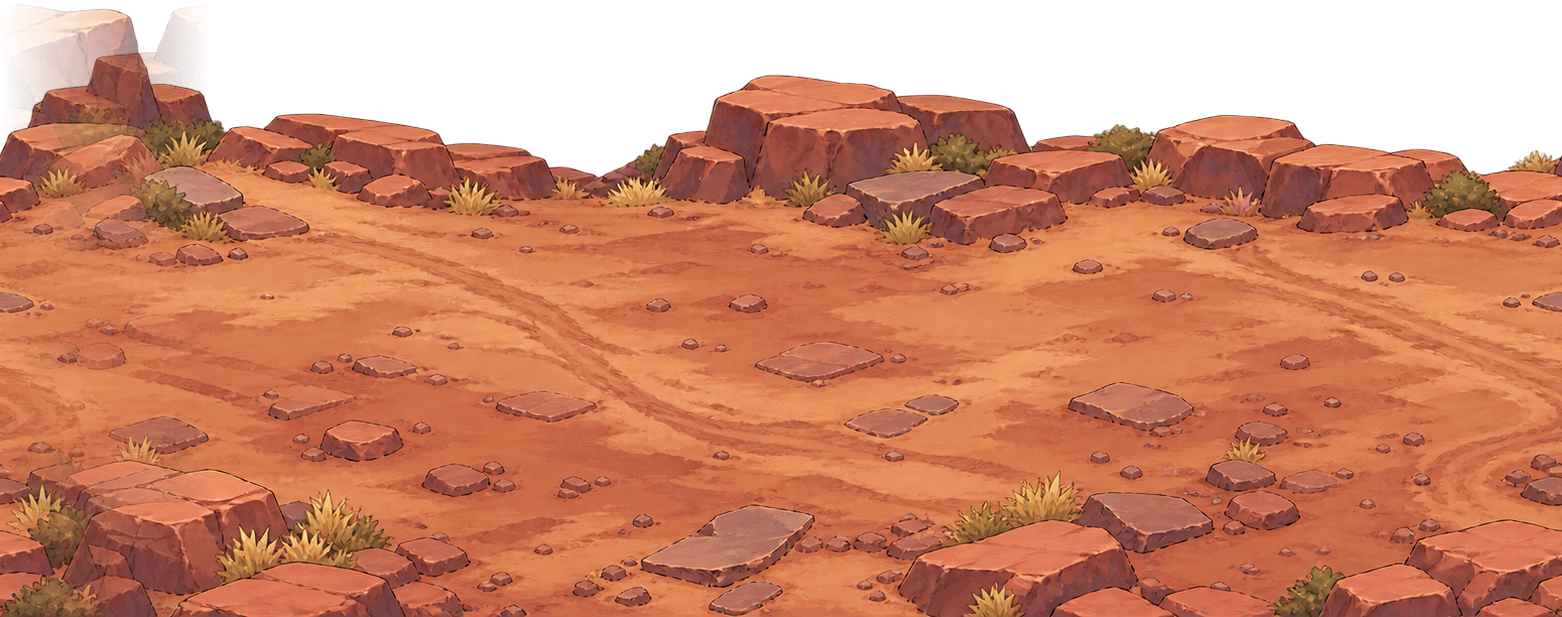
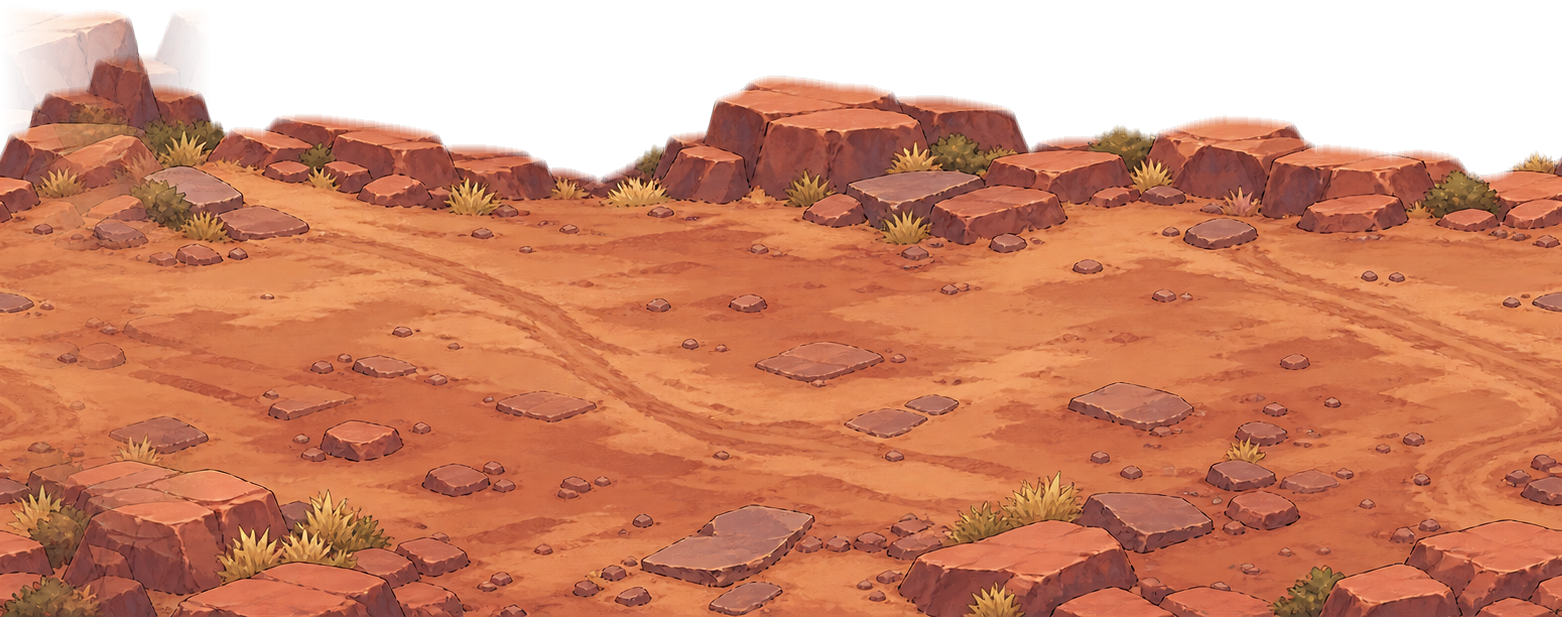
서리 무덤 완성: 서리 망령, 군단장 알도르, 배경 4레이어
- 추출 도구: 이펙트로 붙은 프레임을 가장 얇은 곳에서 나눔
- 배경 레이어 위쪽 가장자리를 부드럽게 처리해 가로줄 제거

Claude-Session: https://claude.ai/code/session_011AypWsTwCXy5ahmKUPDYwt

diff --git a/index.html b/index.html
@@ -685,7 +685,7 @@ function mixc(a,b,t){const p=h=>[1,3,5].map(i=>parseInt(h.slice(i,i+2),16)),A=p(
 const DECO=['windmill','trees','spires','graves','volcano'];
 function rnd(i){const x=Math.sin(i*127.1+311.7)*43758.5453;return x-Math.floor(x)}
 /* 배경 이미지: assets/bg/<지역>_<sky|far|mid|ground>.png, 가로 반복. 없으면 아래 코드 배경 */
-const BG_IMG={0:'erdan',1:'dusk',2:'canyon'},BG_FULL={dusk:true,canyon:true},BGI={};
+const BG_IMG={0:'erdan',1:'dusk',2:'canyon',3:'frost'},BG_FULL={dusk:true,canyon:true,frost:true},BGI={};
 function loadBgs(){for(const k in BG_IMG){const n=BG_IMG[k];BGI[n]={};for(const l of['sky','far','mid','ground']){const im=new Image();im.onload=()=>{im.ok=true;if(l==='ground')im.base=baseColor(im)};im.src='assets/bg/'+n+'_'+l+'.png';BGI[n][l]=im}}}
 function baseColor(im){const c=document.createElement('canvas');c.width=c.height=1;const x=c.getContext('2d');x.drawImage(im,0,im.height*.75,im.width,im.height*.25,0,0,1,1);const d=x.getImageData(0,0,1,1).data;return[d[0],d[1],d[2]]}
 function bgReady(r){const n=BG_IMG[REGIONS.indexOf(r)];return n&&['sky','far','mid','ground'].every(l=>BGI[n][l].ok)?BGI[n]:null}
@@ -828,7 +828,8 @@ function drawFxs(){for(const f of fxs){const n=FXDEF[f.k],i=Math.min(n-1,Math.fl
 /* 몬스터 스프라이트: 지역 번호 → 시트 이름. 시트는 assets/monsters/<이름>_<walk|attack|hit>.png, 왼쪽을 봄 */
 const MON_SPRITES={0:{id:'slime_plague',walk:4,attack:4,hit:2,fig:150,h:54},
  1:{id:'bat_shadow',walk:4,attack:4,hit:2,fig:180,h:44,lift:30,boss:{id:'boss_seril',walk:4,attack:4,hit:2,fig:195,h:72}},
- 2:{id:'golem_steel',walk:4,attack:4,hit:2,fig:190,h:58,boss:{id:'boss_gromak',walk:4,attack:4,hit:2,fig:200,h:74}}};
+ 2:{id:'golem_steel',walk:4,attack:4,hit:2,fig:190,h:58,boss:{id:'boss_gromak',walk:4,attack:4,hit:2,fig:200,h:74}},
+ 3:{id:'wraith_frost',walk:4,attack:4,hit:2,fig:185,h:50,lift:18,boss:{id:'boss_aldor',walk:4,attack:4,hit:2,fig:195,h:74}}};
 const MSPR={};
 function loadMonSprites(){for(const k in MON_SPRITES){for(const d of[MON_SPRITES[k],MON_SPRITES[k].boss].filter(Boolean)){MSPR[d.id]={};for(const a of['walk','attack','hit']){const im=new Image();im.onload=()=>{im.ok=true};im.src='assets/monsters/'+d.id+'_'+a+'.png';MSPR[d.id][a]=im}}}}
 const sprOk=d=>{const m=d&&MSPR[d.id];return!!m&&['walk','attack','hit'].every(a=>m[a]&&m[a].ok)};

diff --git a/tools/extract_sprites.py b/tools/extract_sprites.py
@@ -103,19 +103,29 @@ def main(src, cid, monster=False):
     rows = group_rows(blobs(alpha), len(rows_def))
     for (name, n), row in zip(rows_def, rows):
         row = merge_to(row, n)
+        while len(row) < n:  # 이펙트로 붙은 프레임: 가장 넓은 조각을 가장 얇은 세로줄에서 나눔
+            i = max(range(len(row)), key=lambda k: row[k][2] - row[k][0])
+            x0, y0, x1, y1 = row[i]
+            col = (alpha[y0:y1, x0:x1] > 200).sum(0)
+            q = (x1 - x0) // 4
+            m = x0 + q + int(np.argmin(col[q: (x1 - x0) - q]))
+            row[i:i + 1] = [[x0, y0, m, y1, 1], [m, y0, x1, y1, 1]]  # 5번째 값 1 = 나눈 프레임
         if len(row) != n:
             raise SystemExit(f"{name}: 프레임 {len(row)}개 (필요 {n}개)")
         sheet = Image.new("RGBA", (FRAME * n, FRAME), (0, 0, 0, 0))
-        for i, (x0, y0, x1, y1) in enumerate(row):
+        for i, box in enumerate(row):
+            x0, y0, x1, y1 = box[:4]
+            was_split = len(box) > 4
             hx = head_x(alpha, (x0, y0, x1, y1))
-            mine = own_mask(loose_lab, (x0, y0, x1, y1))
-            crop = img[max(0, y0 - 6): y1 + 4, max(0, x0 - 6): x1 + 6].copy()
+            mine = np.ones_like(alpha, bool) if was_split else own_mask(loose_lab, (x0, y0, x1, y1))
+            px = 0 if was_split else 6
+            crop = img[max(0, y0 - 6): y1 + 4, max(0, x0 - px): x1 + px].copy()
             a = crop[..., 3]
-            m = mine[max(0, y0 - 6): y1 + 4, max(0, x0 - 6): x1 + 6]
+            m = mine[max(0, y0 - 6): y1 + 4, max(0, x0 - px): x1 + px]
             crop[..., 3] = np.where((a < ALPHA_CUT) | ~m, 0, a)
             pic = Image.fromarray(crop)
             pic = pic.resize((max(1, round(pic.width * scale)), max(1, round(pic.height * scale))), Image.LANCZOS)
-            ox = i * FRAME + round(FRAME / 2 - (hx - max(0, x0 - 6)) * scale)
+            ox = i * FRAME + round(FRAME / 2 - (hx - max(0, x0 - px)) * scale)
             oy = FOOT_Y - round((y1 - max(0, y0 - 6)) * scale)
             frame = Image.new("RGBA", (FRAME * n, FRAME), (0, 0, 0, 0))
             frame.paste(pic, (ox, oy), pic)

diff --git a/tools/extract_bg.py b/tools/extract_bg.py
@@ -93,6 +93,12 @@ def layers(prefix):
             rgba[..., 3] = np.where(a < 12, 0, a)
             rows = np.nonzero((rgba[..., 3] > 0).mean(1) > 0.002)[0]
             rgba = rgba[max(0, rows.min() - 2):]
+            # 위쪽 가장자리를 부드럽게 (레이어 경계에 생기는 가로줄 방지)
+            colmask = rgba[..., 3] > 0
+            first = np.where(colmask.any(0), colmask.argmax(0), rgba.shape[0])
+            yy = np.arange(rgba.shape[0])[:, None]
+            fade = np.clip((yy - first[None, :]) / 10.0, 0, 1)
+            rgba[..., 3] = (rgba[..., 3] * fade).astype(np.uint8)
         rgba = make_tileable(rgba)
         out = f"assets/bg/{region}_{name}.png"
         Image.fromarray(rgba).save(out, optimize=True)

diff --git a/README.md b/README.md
@@ -45,7 +45,8 @@ python3 -m http.server 8000
 | 어스름 숲 | 밤그늘 박쥐, 군단장 세릴, 배경 4레이어 적용 |
 | 전투 효과 | 타격, 치명타, 회복, 금화, 작살, 벌 떼, 수프 7종 적용, `assets/fx/` |
 | 드워프 협곡 | 강철 골렘, 군단장 그로마크, 배경 4레이어 적용 |
-| 서리 무덤·잿불 심연, 군단장 모르바스 | 코드 그림 (전투 배경은 2.5D 구도로 개선) |
+| 서리 무덤 | 서리 망령, 군단장 알도르, 배경 4레이어 적용 |
+| 잿불 심연, 군단장 모르바스 | 코드 그림 (전투 배경은 2.5D 구도로 개선) |
 
 이미지가 없거나 불러오지 못하면 게임은 자동으로 코드 그림을 씁니다. 그래서 에셋을 하나씩 추가해도 게임이 깨지지 않아요.
 
